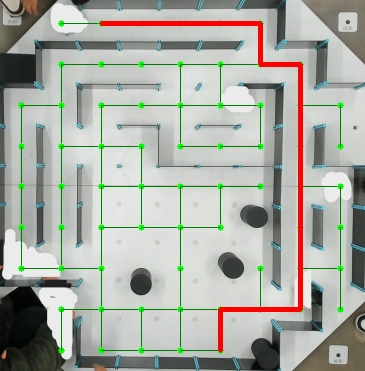
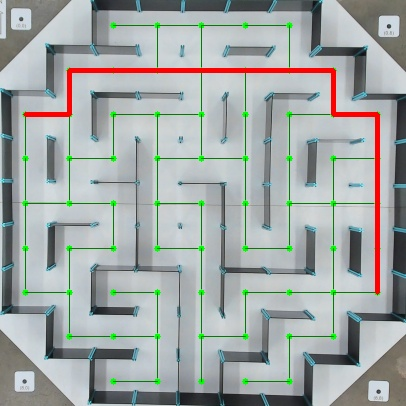
4.1 and 4.2 code reformatting

diff --git a/4.1 Micromouse Race/path_generation.py b/4.1 Micromouse Race/path_generation.py
@@ -1,8 +1,24 @@
 import cv2
 from pathlib import Path
 import numpy as np
-import matplotlib.pyplot as plt
 import serial, time
+#======================== VARIABLES ===========================#
+# Top left and bottom right of the maze to crop the image
+cropX1, cropX2 = (361, 767)
+cropY1, cropY2 = (69, 475)
+# cropX1, cropX2 = (349, 714)
+# cropY1, cropY2 = (88, 459)
+
+# (0,0) and (8,8) position, evenly spaced nodes will be placed
+x0, x8 = 25, 377
+y0, y8 = 25, 381
+graph_n = 9
+# x0, x8 = 21, 340
+# y0, y8 = 23, 350
+
+# start and end cell (0,0) ~ (8,8)
+start = (2,0)
+end = (6,8)
 
 #======================== CLASSES ===========================#
 class Node:
@@ -60,7 +76,6 @@ def draw_nodes_and_edges(image, graph):
             cv2.circle(image, (x1, y1), 3, (0, 255, 0), -1) # pure green
             cv2.line(image, (x1, y1), (x2, y2), (0, 125, 0), 1) # light green
 #             cv2.putText(image, str(node1), (x1, y1), cv2.FONT_HERSHEY_SIMPLEX, 0.7, (0, 255, 0), 2)
-            
 
 def draw_blue_path(image, graph, path):
     # Draw path
@@ -99,7 +114,7 @@ def bfs(graph, start_node_id, end_node_id):
     # check if end is reachable
     if cost[end_node_id] == -1:
         print(f"No path between node {start_node_id} and node {end_node_id}")
-        return
+        return {}
     
     # obtain path
     path = []
@@ -122,7 +137,7 @@ def diff_to_h(diff):
         return 3
 
 #========================= CODE =========================#
-img_path = Path(__file__).parent / "RealMaze.jpg"   # same folder as script
+img_path = Path(__file__).parent / "Micromouse_continuous_2.jpg"   # same folder as script
 img = cv2.imread(str(img_path), cv2.IMREAD_COLOR)
 if img is None:
     raise IOError(f"OpenCV could not read the image: {img_path.resolve()}")
@@ -131,9 +146,8 @@ width = img.shape[1] // 4
 height = img.shape[0] // 4
 img = cv2.resize(img, (width, height), interpolation=cv2.INTER_AREA)
 
-# Crop the image (Find the y1,y2 x1,x2)
-img = img[88:459, 349:714]
-#img = img[60:492, 351:770]
+# Crop the image
+img = img[cropY1:cropY2, cropX1:cropX2]
 
 HSV_img = cv2.cvtColor(img, cv2.COLOR_BGR2HSV)
 lower = np.array([0, 0, 160], np.uint8)
@@ -145,82 +159,70 @@ maze_img = cv2.morphologyEx(maze_mask, cv2.MORPH_OPEN, kernel)
 
 cv2.imwrite('maze.jpg', maze_img)
 
-# Define ranges (Find the 0,0 and 8,8)
-x_start, x_end = 21, 340
-y_start, y_end = 23, 350
-# x_start, x_end = 36, 385
-# y_start, y_end = 30, 390
-sections = 9
-
 # Generate equally spaced coordinates
-x_coords = np.round(np.linspace(x_start, x_end, sections)).astype(int)
-y_coords = np.round(np.linspace(y_start, y_end, sections)).astype(int)
+x_coords = np.round(np.linspace(x0, x8, graph_n)).astype(int)
+y_coords = np.round(np.linspace(y0, y8, graph_n)).astype(int)
 
 # Create all combinations
-bfs_pos = []
+node_pos = []
 for y in y_coords:
     for x in x_coords:
-        bfs_pos.append((x, y))
+        node_pos.append((x, y))
 
 # graph creation
-bfs_n = 9
-bfs_image = cv2.cvtColor(maze_img, cv2.COLOR_GRAY2BGR)
-bfs_graph = Graph()
+graph = Graph()
 
-# add nodes into bfs_graph
-for i, (x, y) in enumerate(bfs_pos):
-    bfs_graph.add_node(i, x, y)
+# add nodes into graph
+for i, (x, y) in enumerate(node_pos):
+    graph.add_node(i, x, y)
     
 
-# add edges into bfs_graph
-for i, (x, y) in enumerate(bfs_pos):
+# add edges into graph
+for i, (x, y) in enumerate(node_pos):
     # check right node
     next_node = i + 1
-    if (i % bfs_n != (bfs_n - 1)):
-        (x2, y2) = bfs_pos[next_node] # node on the right
+    if (i % graph_n != (graph_n - 1)):
+        (x2, y2) = node_pos[next_node] # node on the right
         is_clear = path_clear(maze_img, x, y, x2, y2)
         if is_clear is True:
-            bfs_graph.add_edge(i, i + 1, 1)
+            graph.add_edge(i, i + 1, 1)
     
     # check down node
-    next_node = i + bfs_n
-    if next_node > (bfs_n * bfs_n - 1):
+    next_node = i + graph_n
+    if next_node > (graph_n * graph_n - 1):
         continue
-    (x2, y2) = bfs_pos[next_node] # node directly below
+    (x2, y2) = node_pos[next_node] # node directly below
     is_clear = path_clear(maze_img, x, y, x2, y2)
     if is_clear is True:
-        bfs_graph.add_edge(i, i + bfs_n, 1)
+        graph.add_edge(i, i + graph_n, 1)
 
 # Display the image
-draw_nodes_and_edges(img, bfs_graph)
+draw_nodes_and_edges(img, graph)
+script_dir = Path(__file__).parent
+output_path = script_dir / "dots.jpg"
+cv2.imwrite(str(output_path), img)
 
 # Label first and last positions
-x_first, y_first = bfs_pos[0]
-x_last, y_last = bfs_pos[-1]
-last_num = bfs_n * bfs_n - 1
+x_first, y_first = node_pos[0]
+x_last, y_last = node_pos[-1]
+last_num = graph_n * graph_n - 1
 # cv2.putText(img, '0', (x_first, y_first), cv2.FONT_HERSHEY_SIMPLEX, 1, (0, 255, 0), 2)
 # cv2.putText(img, str(last_num), (x_last, y_last), cv2.FONT_HERSHEY_SIMPLEX, 1, (0, 255, 0), 2)
 
 # Breadth first search algo
-bfs_start = (0,2)
-bfs_end = (8,5)
-
-bfs_start_node = bfs_start[0] * bfs_n + bfs_start[1]
-bfs_end_node = bfs_end[0] * bfs_n + bfs_end[1]
-path = bfs(bfs_graph,bfs_start_node,bfs_end_node)
+start_node = start[0] * graph_n + start[1]
+end_node = end[0] * graph_n + end[1]
+path = bfs(graph,start_node,end_node)
 
 if len(path) < 2:
     print("No path")
     exit()
 # Display the resulting image
 print(f"Path: {path}")
-draw_blue_path(img, bfs_graph, path)
+draw_blue_path(img, graph, path)
 script_dir = Path(__file__).parent
 output_path = script_dir / "path.jpg"
 cv2.imwrite(str(output_path), img)
-# cv2.imshow('bfs_image', img)
-# cv2.waitKey(0)
-# cv2.destroyAllWindows()
 
 seq = []
 left = False

diff --git a/4.2 Continuous/continuous_path.py b/4.2 Continuous/continuous_path.py
@@ -22,18 +22,17 @@ br = (6, 6) # bottom right of 5x5 grid
 # (0,0) and (8,8) position, evenly spaced nodes will be placed
 x_start, x_end = 25, 377
 y_start, y_end = 25, 381
-sections = 9
+graph_n = 9
 # x_start, x_end = 21, 340
 # y_start, y_end = 23, 350
 
 # Graph variables
-bfs_n = 9
 prm_total_nodes_count = 69
 prm_connection_radius = 100
 
 # start and end cell (0,0) ~ (8,8)
-start = (7,7)
-end = (5,0)
+start = (4,8)
+end = (5,8)
 
 #======================== CLASSES ===========================#
 class Node:
@@ -93,11 +92,8 @@ def draw_nodes_and_edges(image, graph):
         for node2 in nbrs:
             (x1,y1) = graph.nodes[node1].get_point()
             (x2,y2) = graph.nodes[node2].get_point()
-            #cv2.circle(image, (x1, y1), 3, (0, 255, 0), -1) # pure green
             cv2.line(image, (x1, y1), (x2, y2), (0, 125, 0), 1) # light green
             
-            
-
 def draw_blue_path(image, graph, path):
     # Draw path
     for i, node in enumerate(path):
@@ -239,52 +235,51 @@ output_path = script_dir / "occupancy.jpg"
 cv2.imwrite(str(output_path), occ_map)
 
 # Generate equally spaced nodes
-x_coords = np.round(np.linspace(x_start, x_end, bfs_n)).astype(int)
-y_coords = np.round(np.linspace(y_start, y_end, bfs_n)).astype(int)
+x_coords = np.round(np.linspace(x_start, x_end, graph_n)).astype(int)
+y_coords = np.round(np.linspace(y_start, y_end, graph_n)).astype(int)
 
 # Create all combinations
-bfs_pos = []
+out_node_pos = []
 for y in y_coords:
     for x in x_coords:
-        bfs_pos.append((x, y))
+        out_node_pos.append((x, y))
 
 # graph creation
-bfs_image = cv2.cvtColor(maze_img, cv2.COLOR_GRAY2BGR)
 graph = Graph()
 
 # add outside grid nodes into graph
-for i, (x, y) in enumerate(bfs_pos):
+for i, (x, y) in enumerate(out_node_pos):
     # print(f"added node {i} to the graph, its position is at {x},{y}")
     graph.add_node(i, x, y)
 
 # add edges into graph
-for i, (x, y) in enumerate(bfs_pos):
+for i, (x, y) in enumerate(out_node_pos):
     # check right node j = i+1
     j = i + 1
-    if i % bfs_n != (bfs_n - 1):
-        (x2, y2) = bfs_pos[j] # node on the right
+    if i % graph_n != (graph_n - 1):
+        (x2, y2) = out_node_pos[j] # node on the right
         is_clear = path_clear(maze_img, x, y, x2, y2)
 
-        if is_clear is True and (not in_roi(i, bfs_n, tl[0], tl[1], 5) or not in_roi(j, bfs_n, tl[0], tl[1], 5)):
+        if is_clear is True and (not in_roi(i, graph_n, tl[0], tl[1], 5) or not in_roi(j, graph_n, tl[0], tl[1], 5)):
             dist = math.sqrt((x2 - x) ** 2  + (y2 - y) ** 2)
             graph.add_edge(i, j, dist)
     
     # check down node
-    j = i + bfs_n
-    if j > (bfs_n * bfs_n - 1):
+    j = i + graph_n
+    if j > (graph_n * graph_n - 1):
         continue
-    (x2, y2) = bfs_pos[j] # node directly below
+    (x2, y2) = out_node_pos[j] # node directly below
     is_clear = path_clear(maze_img, x, y, x2, y2)
 
-    if is_clear is True and (not in_roi(i, bfs_n, tl[0], tl[1], 5) or not in_roi(j, bfs_n, tl[0], tl[1], 5)):
+    if is_clear is True and (not in_roi(i, graph_n, tl[0], tl[1], 5) or not in_roi(j, graph_n, tl[0], tl[1], 5)):
         dist = math.sqrt((x2 - x) ** 2  + (y2 - y) ** 2)
         graph.add_edge(i, j, dist)
 
 # Generate random nodes within 5x5 grid
 prm_pos = []
 prm_ids = []
-tlX, tlY = bfs_pos[tl[0] * bfs_n + tl[1]]
-brX, brY = bfs_pos[br[0] * bfs_n + br[1]]
+tlX, tlY = out_node_pos[tl[0] * graph_n + tl[1]]
+brX, brY = out_node_pos[br[0] * graph_n + br[1]]
 while len(prm_pos) < prm_total_nodes_count:
     x = random.randint(min(tlX, brX), max(tlX, brX))
     y = random.randint(min(tlY, brY), max(tlY, brY))
@@ -315,7 +310,7 @@ for a, (x1, y1) in enumerate(prm_pos):
             graph.add_edge(n1, n2, dist)
 
 # Bridge PRM and outside grid
-grid_ids = list(range(bfs_n * bfs_n))
+grid_ids = list(range(graph_n * graph_n))
 
 for a, (x1, y1) in enumerate(prm_pos):
     n1 = prm_ids[a]
@@ -327,15 +322,14 @@ for a, (x1, y1) in enumerate(prm_pos):
         if path_clear(occ_map, x1, y1, x2, y2):
             graph.add_edge(n1, gid, dist)
 
-
 # Add start (node id = -1) and end (node_id = -2) nodes
-start_x, start_y = bfs_pos[start[0] * bfs_n + start[1]]
-goal_x, goal_y = bfs_pos[end[0] * bfs_n + end[1]]
+start_x, start_y = out_node_pos[start[0] * graph_n + start[1]]
+goal_x, goal_y = out_node_pos[end[0] * graph_n + end[1]]
 graph.add_node(-2, goal_x, goal_y) # end node
 graph.add_node(-1, start_x, start_y) # start node
 
 # Add edges near start and end nodes
-for i, (x1, y1) in enumerate(bfs_pos):
+for i, (x1, y1) in enumerate(out_node_pos):
     # Check if nodes is within radius of start node
     dist = math.sqrt((start_x - x1) ** 2  + (start_y - y1) ** 2)
     if dist <= prm_connection_radius:
